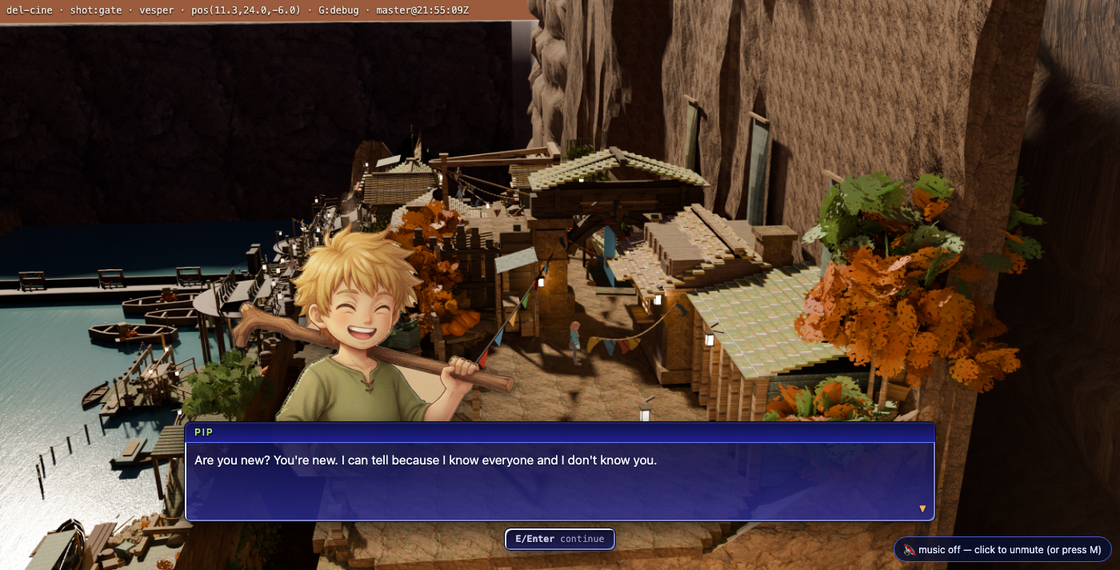
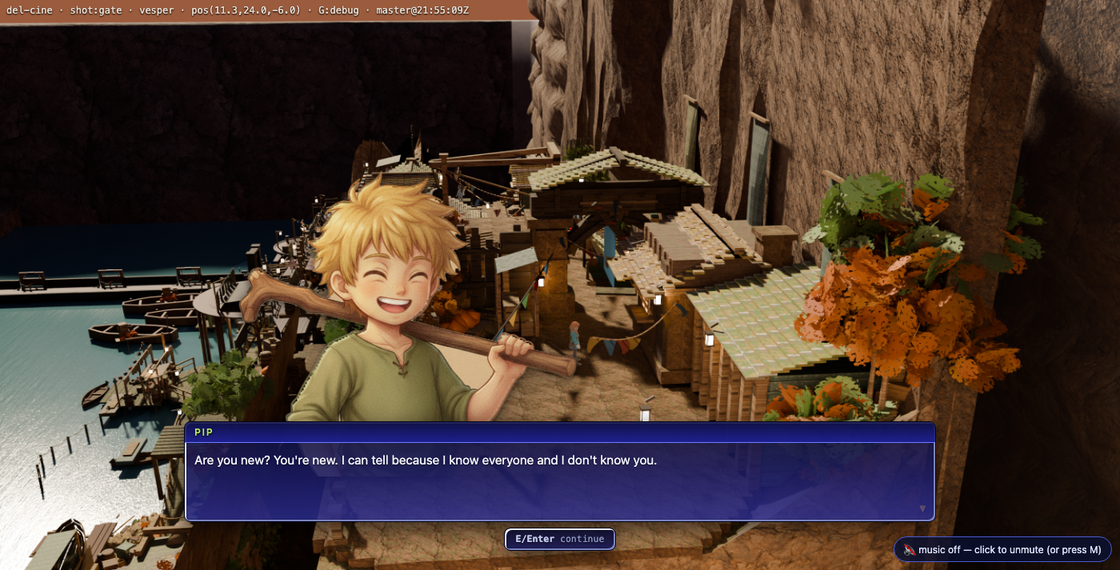
the width cap was punishing a pose, not a portrait
Maren folds her arms, so her silhouette-tight crop is 1.58 wide where the cast's
norm is ~1.0, and at a 44% width cap she rendered 262 px tall against Rowan's
426 — the same ruling producing two sizes of portrait because one character
crossed her arms. 60%: she lands at 369 and the cap goes back to being what it
is for, which is stopping a cut-in from becoming a wall. QA stills re-shot at the
final scale.

diff --git a/public/js/dialogue.js b/public/js/dialogue.js
@@ -83,7 +83,7 @@
   var CUTIN_MAX_PX = 560;        // ~3x the old 190px thumbnail; see placeCutin()
   var CUTIN_VH = 0.45;           // ...VISIBLE portrait never exceeds this much viewport
   var CUTIN_STAGE = 0.62;        // ...nor this much of the game frame
-  var CUTIN_WIDE = 0.44;         // ...nor this much of the window's width
+  var CUTIN_WIDE = 0.60;         // ...nor this much of the window's width
   var CUTIN_SINK = 0.55;         // share of the box the art's bottom sinks behind
 
   var U = function () { return window.EBUI || null; };
@@ -424,8 +424,12 @@
     // measuring the element instead quietly shrank every portrait by the box's
     // half-height. The stage cap is separate and not redundant: play3d's frame is
     // a 16:9 letterbox inside the page, so 45vh can be taller than the whole
-    // game. The width cap is taste — a portrait past ~44% of the window stops
-    // being a cut-in and becomes a wall.
+    // game. The WIDTH cap has to be generous or it silently punishes a pose: the
+    // crops are cut to the silhouette, so Maren's folded arms make hers 1.58 wide
+    // where the cast's norm is ~1.0, and at 44% she rendered 262 px tall against
+    // Rowan's 426 — the same ruling producing two different portraits because one
+    // character crossed her arms. At 60% she lands at 369 and the cap is back to
+    // being what it is for: stopping a portrait from becoming a wall.
     var stageH = (S.panel.el && S.panel.el.clientHeight) || 0;
     var viewH = (typeof window !== 'undefined' && window.innerHeight) || stageH || 720;
     var h = Math.min(CUTIN_MAX_PX, viewH * CUTIN_VH + sink);
